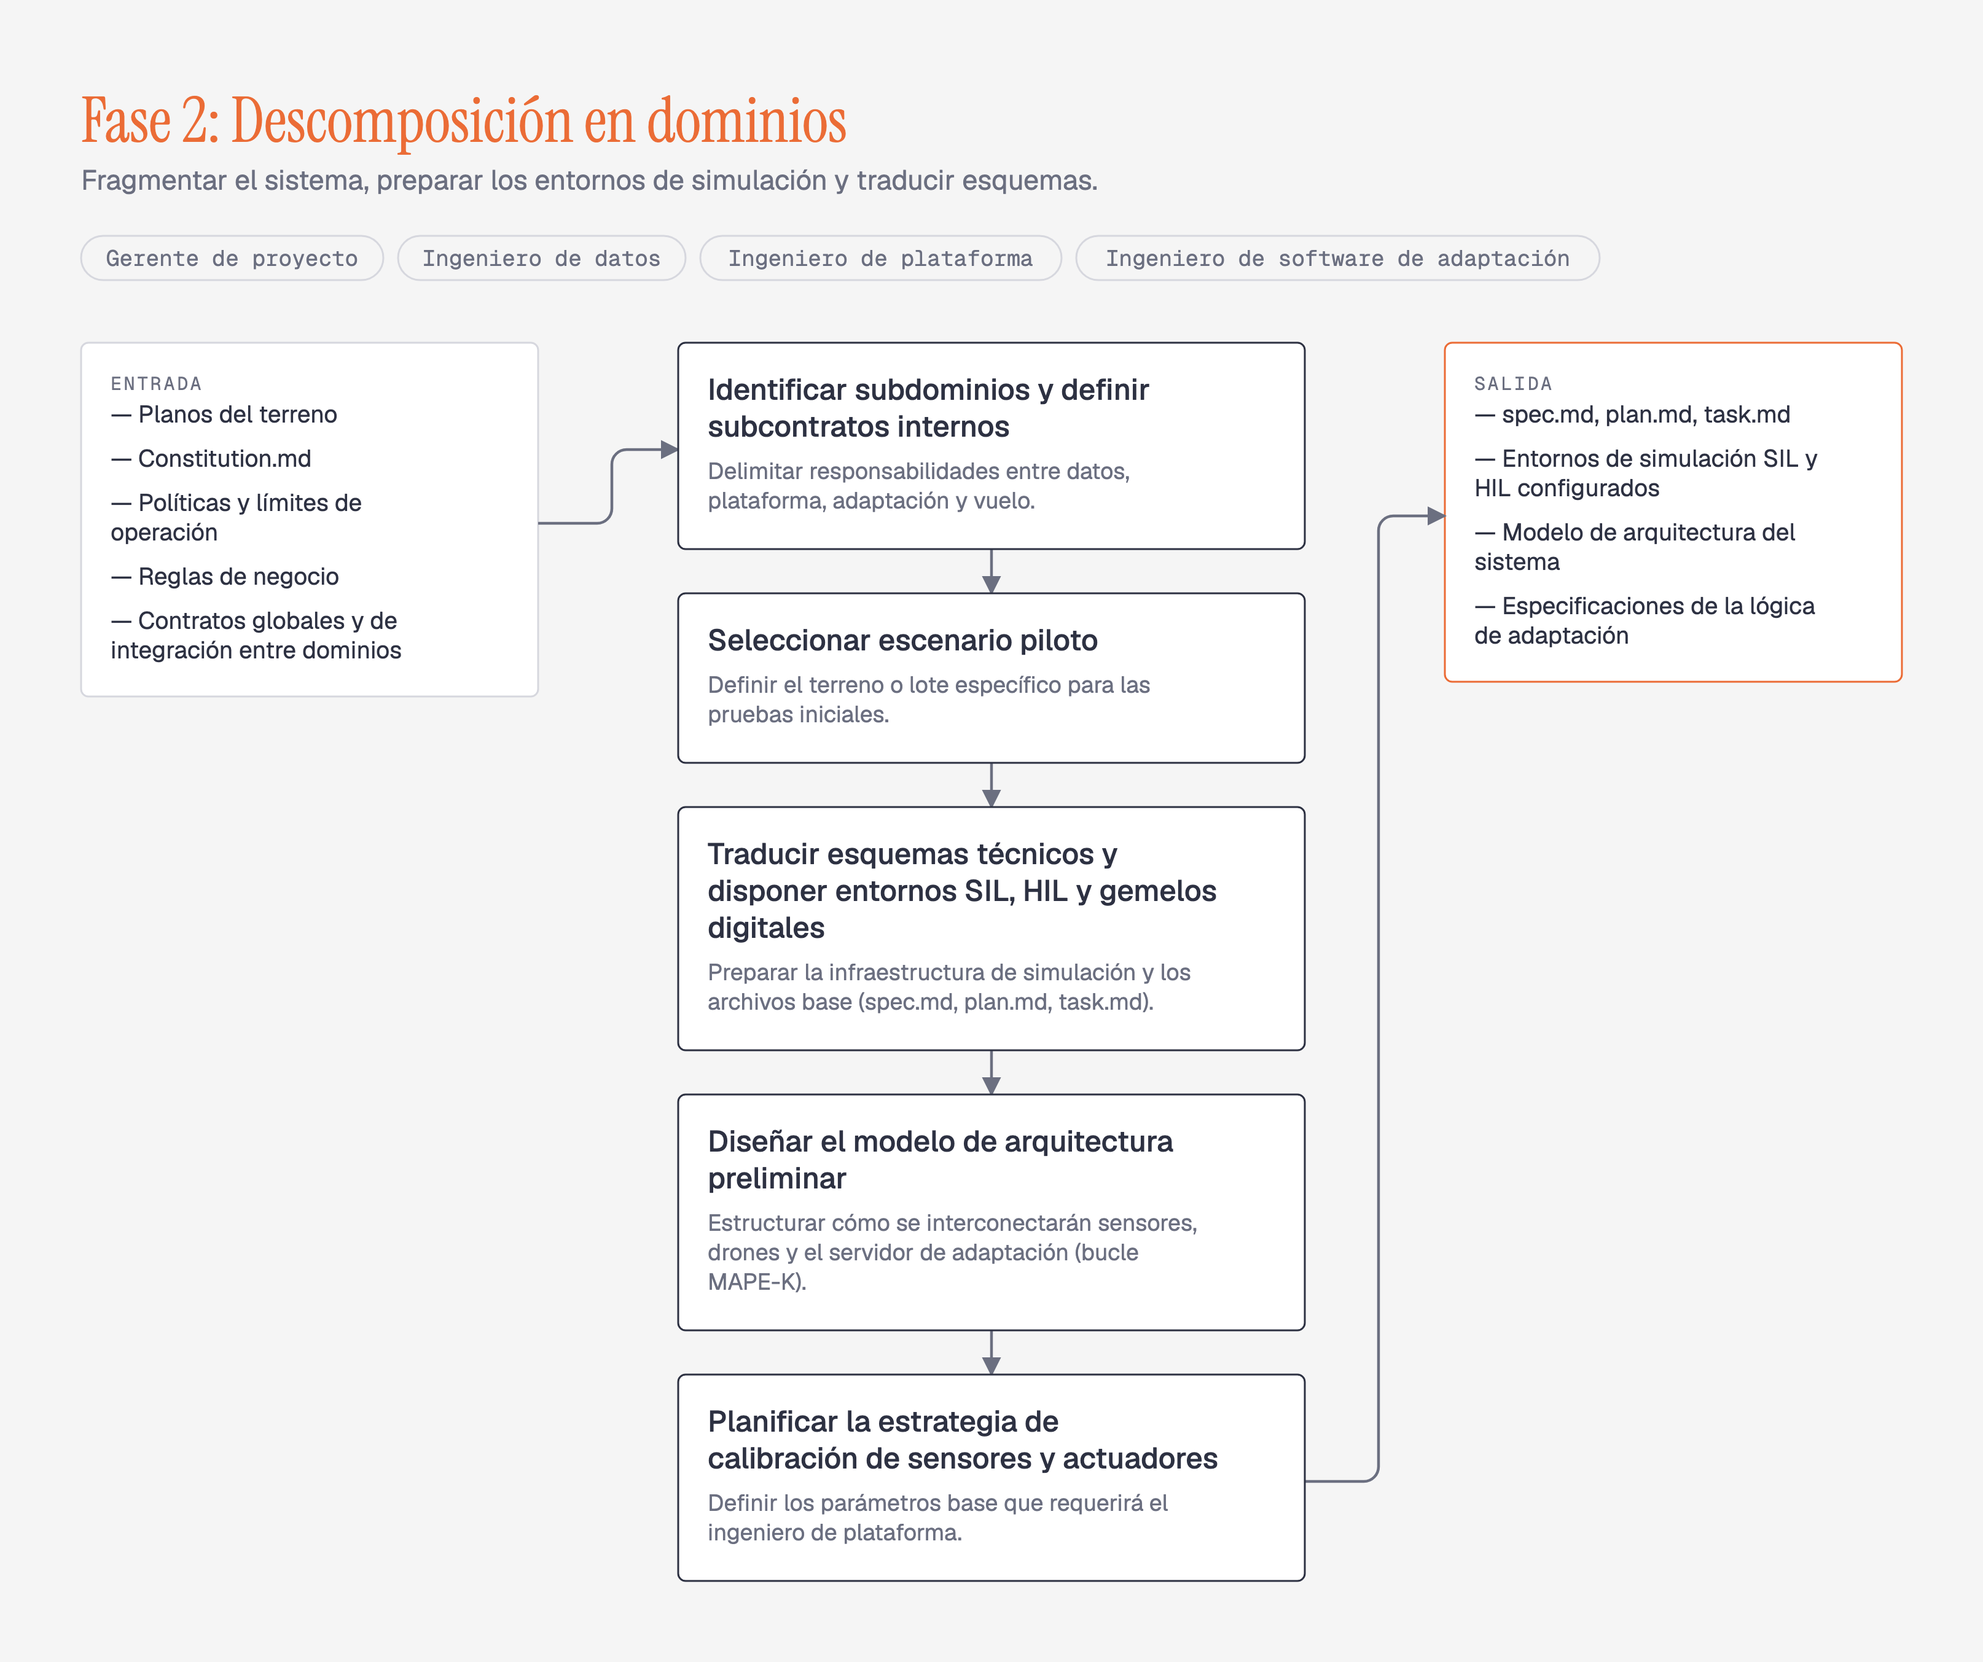
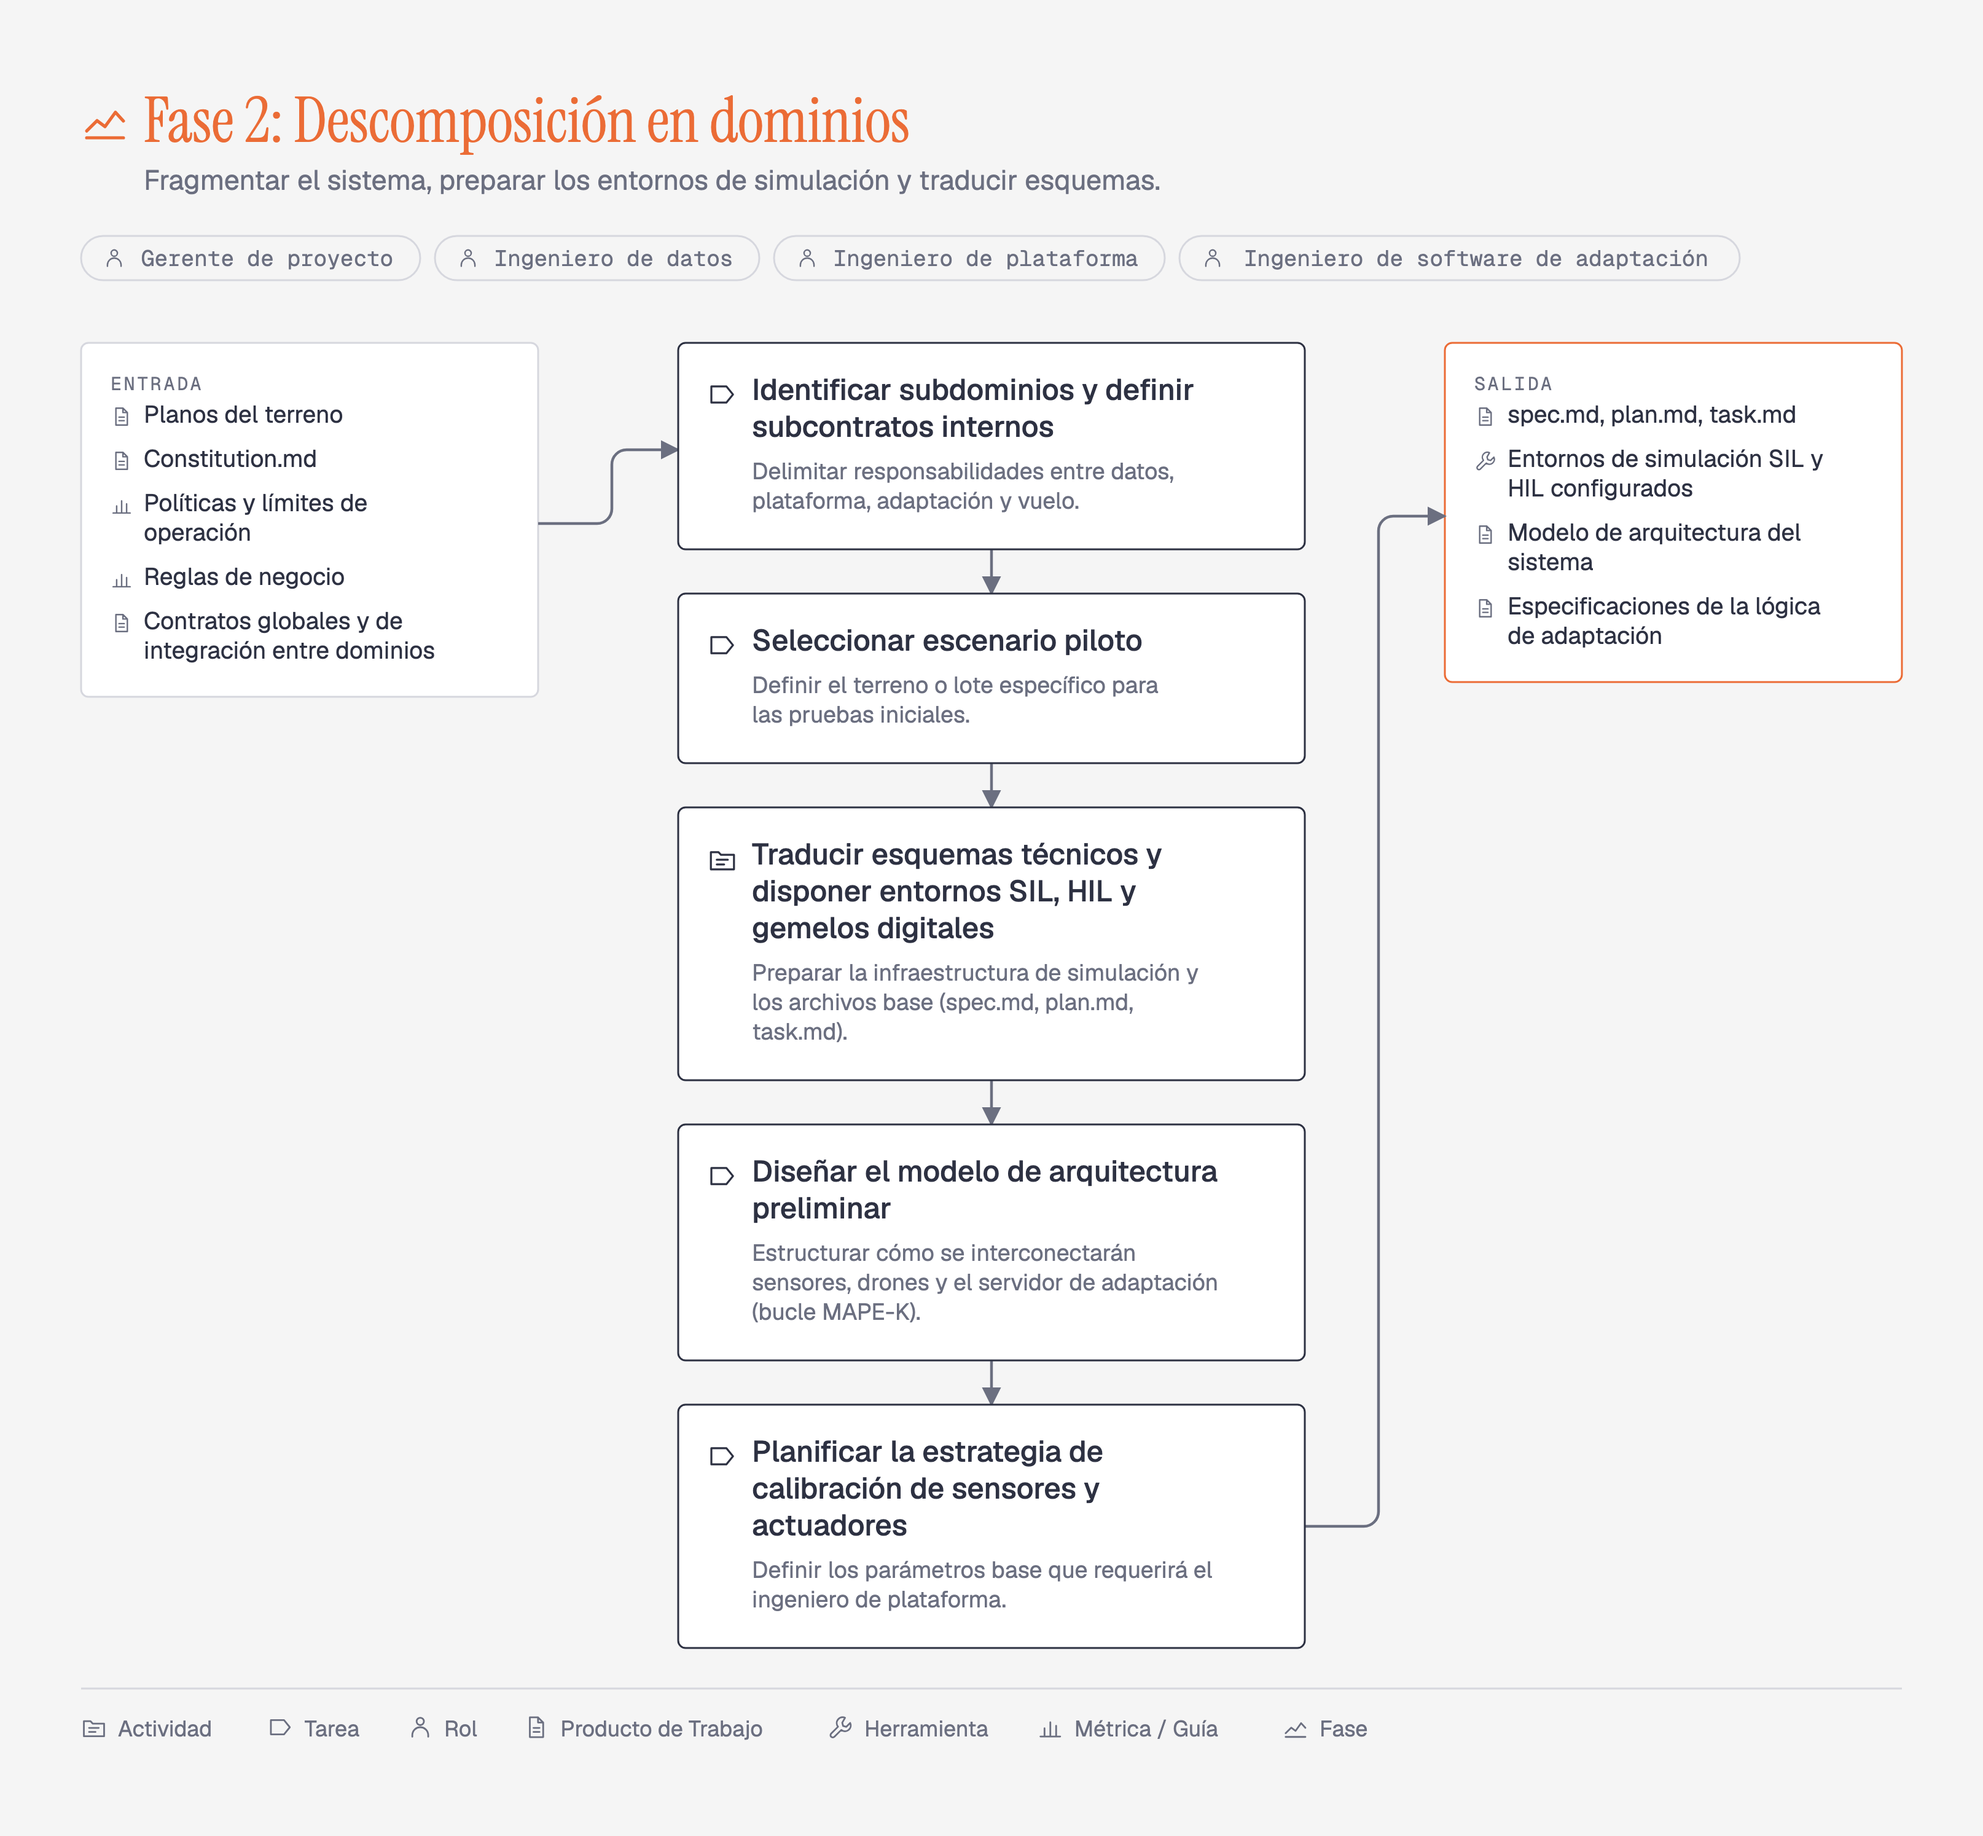
feat: asignar iconos al seed, regenerar figuras y actualizar docs
Los ítems de las cuatro Fases reciben el tipo SPEM que les corresponde por lo que
son en el documento fuente: Normatividad vigente como Guía, los entornos SIL/HIL
como Herramienta, las tareas de validación y auditoría como Hito.

La asignación es una lectura interpretativa del documento y queda sujeta a
corrección del autor.

CONTEXT.md recoge Tipo SPEM en el glosario y la excepción de los identificadores
en inglés.

Cierra #8

diff --git a/src/seed.ts b/src/seed.ts
@@ -37,14 +37,14 @@ export const seed = (): Modelo => ({
         },
       ],
       entrada: [
-        { texto: "Conocimiento del experto del dominio (caficultor)", icono: "workProduct" },
+        { texto: "Conocimiento del experto del dominio (caficultor)", icono: "roleUse" },
         { texto: "Planos del terreno", icono: "workProduct" },
-        { texto: "Normatividad vigente", icono: "workProduct" },
+        { texto: "Normatividad vigente", icono: "metric" },
       ],
       salida: [
         { texto: "Constitution.md", icono: "workProduct" },
-        { texto: "Políticas y límites de operación", icono: "workProduct" },
-        { texto: "Reglas de negocio", icono: "workProduct" },
+        { texto: "Políticas y límites de operación", icono: "metric" },
+        { texto: "Reglas de negocio", icono: "metric" },
         { texto: "Contratos globales", icono: "workProduct" },
         { texto: "Contratos de integración entre dominios", icono: "workProduct" },
       ],
@@ -77,7 +77,7 @@ export const seed = (): Modelo => ({
         },
         {
           id: "t2-3",
-          icono: "task",
+          icono: "activity",
           nombre: "Traducir esquemas técnicos y disponer entornos SIL, HIL y gemelos digitales",
           descripcion:
             "Preparar la infraestructura de simulación y los archivos base (spec.md, plan.md, task.md).",
@@ -100,13 +100,13 @@ export const seed = (): Modelo => ({
       entrada: [
         { texto: "Planos del terreno", icono: "workProduct" },
         { texto: "Constitution.md", icono: "workProduct" },
-        { texto: "Políticas y límites de operación", icono: "workProduct" },
-        { texto: "Reglas de negocio", icono: "workProduct" },
+        { texto: "Políticas y límites de operación", icono: "metric" },
+        { texto: "Reglas de negocio", icono: "metric" },
         { texto: "Contratos globales y de integración entre dominios", icono: "workProduct" },
       ],
       salida: [
         { texto: "spec.md, plan.md, task.md", icono: "workProduct" },
-        { texto: "Entornos de simulación SIL y HIL configurados", icono: "workProduct" },
+        { texto: "Entornos de simulación SIL y HIL configurados", icono: "tool" },
         { texto: "Modelo de arquitectura del sistema", icono: "workProduct" },
         { texto: "Especificaciones de la lógica de adaptación", icono: "workProduct" },
       ],
@@ -134,7 +134,7 @@ export const seed = (): Modelo => ({
         },
         {
           id: "t3-2",
-          icono: "task",
+          icono: "milestone",
           nombre: "Validar el prototipo en entorno simulado (SIL/HIL)",
           descripcion:
             "Probar la traza mínima para verificar que la lógica de control responde antes de tocar hardware real.",
@@ -148,20 +148,20 @@ export const seed = (): Modelo => ({
         },
         {
           id: "t3-4",
-          icono: "task",
+          icono: "milestone",
           nombre: "Validar reglas de negocio y condiciones agronómicas",
         },
       ],
       entrada: [
         { texto: "spec.md, plan.md, task.md", icono: "workProduct" },
-        { texto: "Entornos de simulación SIL y HIL configurados", icono: "workProduct" },
+        { texto: "Entornos de simulación SIL y HIL configurados", icono: "tool" },
         { texto: "Modelo de arquitectura del sistema", icono: "workProduct" },
         { texto: "Especificaciones de la lógica de adaptación", icono: "workProduct" },
       ],
       salida: [
         { texto: "Prototipo vertical funcional", icono: "workProduct" },
         { texto: "Informes de validación de control", icono: "workProduct" },
-        { texto: "Pipeline de CI/CD base", icono: "workProduct" },
+        { texto: "Pipeline de CI/CD base", icono: "tool" },
       ],
     },
     {
@@ -180,35 +180,35 @@ export const seed = (): Modelo => ({
       tareas: [
         {
           id: "t4-1",
-          icono: "task",
+          icono: "activity",
           nombre: "Sincronización inter dominio",
           descripcion:
             "Acordar backlogs compartidos entre el gerente de proyecto y los equipos.",
         },
         {
           id: "t4-2",
-          icono: "task",
+          icono: "activity",
           nombre: "Construcción en paralelo (contrato primero)",
           descripcion:
             "Desarrollo concurrente de componentes de datos, plataforma, seguridad de vuelo y adaptación.",
         },
         {
           id: "t4-3",
-          icono: "task",
+          icono: "process",
           nombre: "Verificación e integración continua",
           descripcion:
             "Ejecución de pruebas automatizadas mediante CI/CD, SIL/HIL y gemelos digitales.",
         },
         {
           id: "t4-4",
-          icono: "task",
+          icono: "milestone",
           nombre: "Despliegue en campo y validación fenológica global",
           descripcion:
             "Llevar los releases al terreno real, calibrar dispositivos y evaluar el impacto del riego con el caficultor.",
         },
         {
           id: "t4-5",
-          icono: "task",
+          icono: "milestone",
           nombre: "Auditoría de cumplimiento de la Constitución",
           descripcion:
             "Revisar que los incrementos no rompan las reglas globales establecidas en la Fase 1.",
@@ -224,19 +224,19 @@ export const seed = (): Modelo => ({
       entrada: [
         { texto: "Prototipo vertical funcional", icono: "workProduct" },
         { texto: "Informes de validación de control", icono: "workProduct" },
-        { texto: "Pipeline de CI/CD base", icono: "workProduct" },
-        { texto: "Monitoreo y operación del dron", icono: "workProduct" },
-        { texto: "Sistema de riego y variables climáticas", icono: "workProduct" },
-        { texto: "Coordinación múltiple de drones", icono: "workProduct" },
+        { texto: "Pipeline de CI/CD base", icono: "tool" },
+        { texto: "Monitoreo y operación del dron", icono: "tool" },
+        { texto: "Sistema de riego y variables climáticas", icono: "tool" },
+        { texto: "Coordinación múltiple de drones", icono: "tool" },
       ],
       salida: [
         { texto: "Código fuente", icono: "workProduct" },
         { texto: "Archivos spec.md / task.md", icono: "workProduct" },
-        { texto: "Pipeline de CI/CD ejecutado", icono: "workProduct" },
-        { texto: "Entornos SIL/HIL validados", icono: "workProduct" },
+        { texto: "Pipeline de CI/CD ejecutado", icono: "tool" },
+        { texto: "Entornos SIL/HIL validados", icono: "tool" },
         { texto: "Paquete de calibración de sensores y actuadores", icono: "workProduct" },
         { texto: "Releases de software", icono: "workProduct" },
-        { texto: "Manual de operación actualizado", icono: "workProduct" },
+        { texto: "Manual de operación actualizado", icono: "metric" },
       ],
     },
   ],

diff --git a/README.md b/README.md
@@ -20,13 +20,18 @@ npm run dev        # editor en http://localhost:5173
 |---|---|
 | `npm run dev` | Servidor de desarrollo |
 | `npm run build` | Build de producción en `dist/` |
-| `npm test` | Los 20 tests (layout, validación, mover, slug) |
+| `npm test` | Los 32 tests (layout, validación, mover, slug) |
 | `npm run typecheck` | TypeScript sin emitir |
 | `npm run figuras` | Regenera `figuras/*.png` a 3x con Chrome headless (macOS) |
 | `npm run fuentes` | Regenera `src/fuentes.css`, las tres tipografías en base64 |
 
+Cada **Tarea** y cada ítem de **Entrada** y **Salida** lleva uno de los quince iconos de
+la notación SPEM 2.0, elegido desde el editor. Los **Roles** llevan el icono Role y el
+título de la **Fase** el icono Phase, ambos fijos. Cada figura cierra con una leyenda de
+los tipos que esa **Fase** usa.
+
 En el editor: pestañas para cambiar de **Fase**, panel izquierdo para editar **Roles**,
-**Tareas**, **Entrada** y **Salida**, y en la barra superior **Exportar PNG**,
+**Tareas**, **Entrada** y **Salida** —con un selector de tipo SPEM por elemento—, y en la barra superior **Exportar PNG**,
 **Exportar PDF**, **Exportar JSON**, **Importar JSON** y **Restablecer**.
 
 El PDF abre el diálogo de impresión del navegador; ahí se elige «Guardar como PDF».
@@ -35,9 +40,11 @@ El PDF abre el diálogo de impresión del navegador; ahí se elige «Guardar com
 
 ```
 src/
+  iconos.ts       Los quince tipos de SPEM 2.0 como paths, con sus etiquetas.
   layout.ts       Función pura: una Fase → coordenadas absolutas. Toda la geometría.
   Diagrama.tsx    Dibuja ese layout como un <svg>. No calcula ningún número.
   Editor.tsx      Panel de edición; ListaEditable.tsx para las cuatro listas.
+  SelectorIcono.tsx  <select> nativo de los quince tipos, con preview del glifo.
   validacion.ts   Frontera de confianza: valida JSON importado y localStorage.
   almacen.ts      Autoguardado; un valor corrupto cae al seed.
   exportar.ts     PNG (canvas 3x) y PDF (print), sin dependencias.

diff --git a/CONTEXT.md b/CONTEXT.md
@@ -38,6 +38,13 @@ Los Productos de Trabajo que una Fase produce. La Salida de una Fase es típicam
 la Entrada de la siguiente.
 _Avoid_: Output, entregable, resultado
 
+**Tipo SPEM**:
+El elemento de la notación SPEM 2.0 que un ítem representa: **Producto de Trabajo**,
+Herramienta, Hito, Actividad, Proceso… Cada **Tarea** y cada ítem de **Entrada** o
+**Salida** lleva uno, y de él sale el icono que se dibuja. Los quince están en
+`src/iconos.ts`.
+_Avoid_: Icono, glifo, símbolo, categoría
+
 ### Términos de SPEM 2.0 deliberadamente ausentes
 
 **Method Content**:
@@ -76,3 +83,12 @@ antes de desplegar en campo.
 
 Los defaults tipográficos y de color del skill `diagram-design` se aceptan sin
 personalizar. Ver ADR-0005.
+
+### Excepción: los identificadores de **Tipo SPEM** van en inglés
+
+Las claves de `src/iconos.ts` son `task`, `phase`, `workProduct`, `roleUse` y así, pese
+a que este glosario marca `Task`, `Phase` y `work product` como términos a evitar. El
+veto aplica a la prosa de la interfaz, no a los identificadores normativos de OMG: son
+los nombres con los que la especificación de SPEM 2.0 llama a sus elementos. Lo que el
+editor muestra —y lo que dice la leyenda de cada figura— sigue en español, desde
+`ETIQUETAS`.
